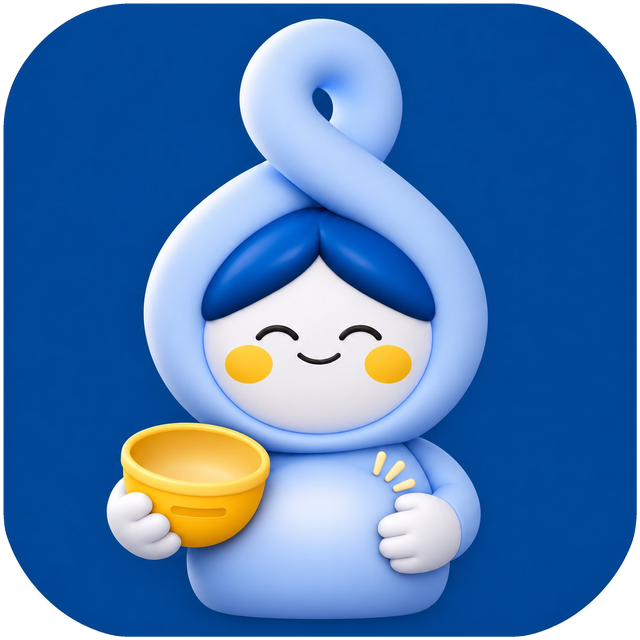
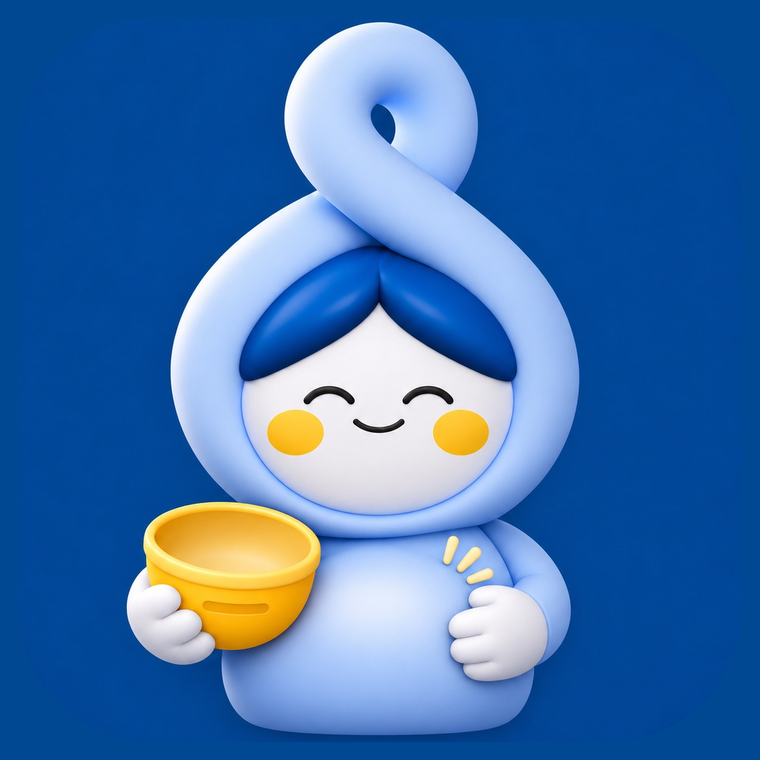
학생 화면 무한이 이미지를 잔액 카드와 같은 크기로 맞춤

Changed region(s): [[0.0, 0.0, 1.0, 1.0]]

diff --git a/web/style.css b/web/style.css
@@ -407,9 +407,11 @@ th { color: var(--muted); font-weight: 500; }
 /* ---------- 학생 화면 마스코트 (주문 진행에 따라 배고픔 / 배부름) ---------- */
 .side { position: sticky; top: 84px; display: flex; flex-direction: column; gap: 16px; }
 .mascot { margin: 0; display: flex; flex-direction: column; align-items: center; gap: 10px; }
-.mascot img { width: 100%; max-width: 300px; aspect-ratio: 1 / 1; display: block; transition: transform .25s ease; }
+.mascot { align-items: stretch; }
+.mascot img { width: 100%; aspect-ratio: 380 / 325; object-fit: contain; background: #014893; display: block; border-radius: 24px; box-shadow: 0 12px 32px rgba(0, 52, 102, .28); transition: transform .25s ease; }
+.mascot figcaption { align-self: center; }
 .mascot[data-mood="full"] img { animation: bounce .6s ease; }
 .mascot figcaption { font-size: 14px; font-weight: 700; color: var(--brand-ink); background: var(--surface); border: 1px solid var(--line); border-radius: 999px; padding: 6px 14px; text-align: center; }
 .mascot[data-mood="full"] figcaption { color: var(--point-ink); background: var(--point-soft); border-color: transparent; }
 @keyframes bounce { 0% { transform: scale(.92); } 60% { transform: scale(1.04); } 100% { transform: scale(1); } }
-@media (max-width: 960px) { .mascot img { max-width: 200px; } }
+@media (max-width: 960px) { .mascot img { max-width: 380px; margin: 0 auto; } }
